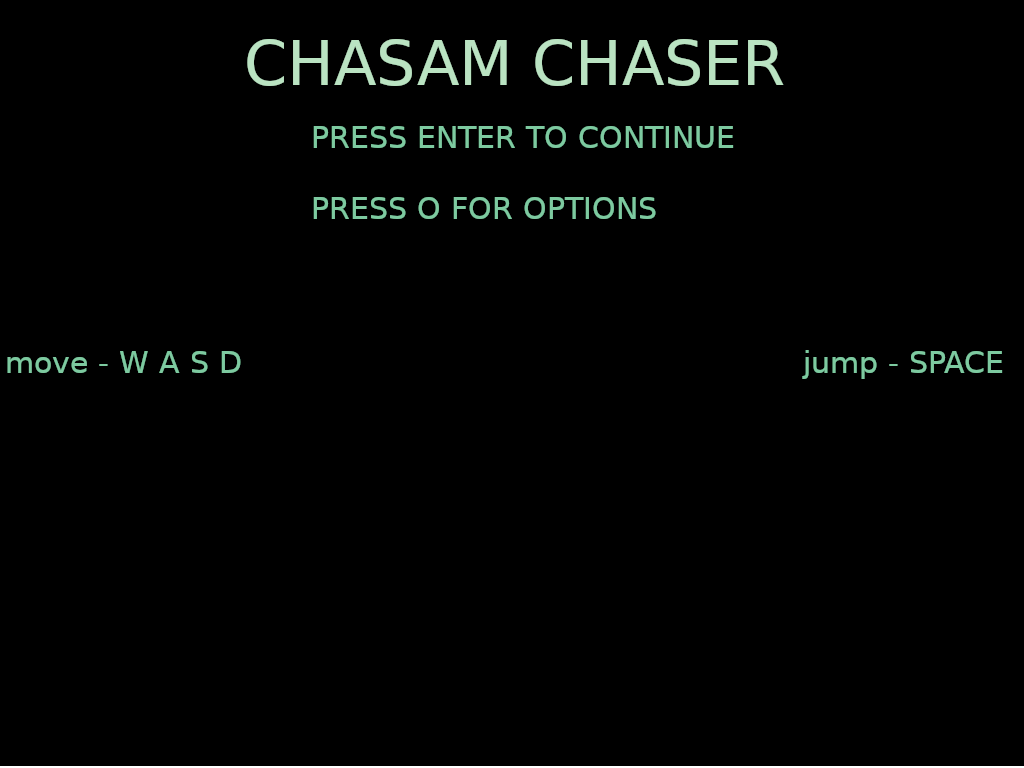
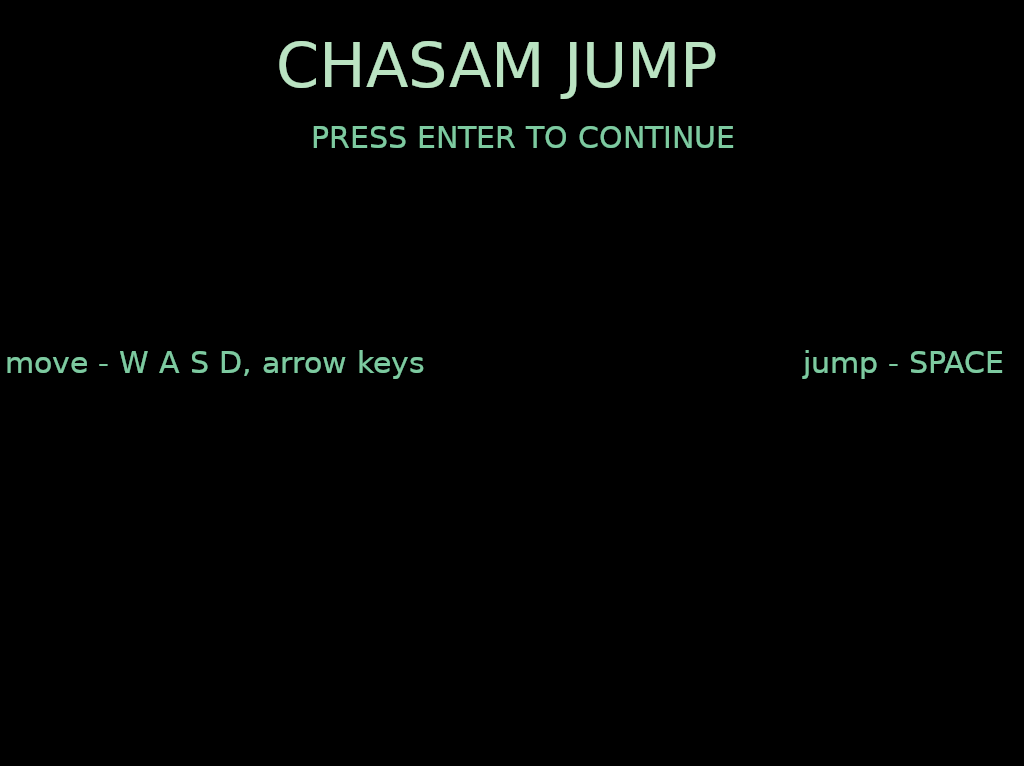
name change and more buffer on falling offscreen

Changed region(s): [[0.2188, 0.0312, 0.7812, 0.125], [0.2812, 0.25, 0.6562, 0.3125], [0.25, 0.4375, 0.4062, 0.5]]

diff --git a/src/main.c b/src/main.c
@@ -17,52 +17,52 @@
 
 
 int main(){
-    minigl_engine *CHASAM_CHASER = minigl_init(1024.0f, 768.0f, "miniGL");
-    load_assets(CHASAM_CHASER);
+    minigl_engine *CHASAM_JUMP = minigl_init(1024.0f, 768.0f, "miniGL");
+    load_assets(CHASAM_JUMP);
 
-    minigl_scene *scene_menu = create_scene_menu(CHASAM_CHASER);
-    minigl_scene *level1 = create_scene_level1(CHASAM_CHASER);
-    minigl_scene *level2 = create_scene_level2(CHASAM_CHASER); 
-    minigl_scene *level3 = create_scene_level3(CHASAM_CHASER); 
-    minigl_scene *scene_win = create_scene_win(CHASAM_CHASER); 
+    minigl_scene *scene_menu = create_scene_menu(CHASAM_JUMP);
+    minigl_scene *level1 = create_scene_level1(CHASAM_JUMP);
+    minigl_scene *level2 = create_scene_level2(CHASAM_JUMP); 
+    minigl_scene *level3 = create_scene_level3(CHASAM_JUMP); 
+    minigl_scene *scene_win = create_scene_win(CHASAM_JUMP); 
 
-    minigl_engine_attach_scene(CHASAM_CHASER, scene_menu);
-    minigl_engine_attach_scene(CHASAM_CHASER, level1);
-    minigl_engine_attach_scene(CHASAM_CHASER, level2);
-    minigl_engine_attach_scene(CHASAM_CHASER, level3);
-    minigl_engine_attach_scene(CHASAM_CHASER, scene_win);
+    minigl_engine_attach_scene(CHASAM_JUMP, scene_menu);
+    minigl_engine_attach_scene(CHASAM_JUMP, level1);
+    minigl_engine_attach_scene(CHASAM_JUMP, level2);
+    minigl_engine_attach_scene(CHASAM_JUMP, level3);
+    minigl_engine_attach_scene(CHASAM_JUMP, scene_win);
 
-    CHASAM_CHASER->current_scene = 0;
+    CHASAM_JUMP->current_scene = 0;
 
 
-    audio_source *music_source = audio_manager_create_source(&CHASAM_CHASER->audio_manager, "sneksong");
+    audio_source *music_source = audio_manager_create_source(&CHASAM_JUMP->audio_manager, "sneksong");
     //audio_manager_play_source(music_source, 1);
 
     double prev_time = glfwGetTime();
-    CHASAM_CHASER->accumulated_frame_time = 0.0;
+    CHASAM_JUMP->accumulated_frame_time = 0.0;
     int frame_count = 0;
     double fps_last_time = prev_time;
 
     //main loop
-    while (!glfwWindowShouldClose(CHASAM_CHASER->window)){ // game loop
-        update_input(&(CHASAM_CHASER->engine_input_manager));
+    while (!glfwWindowShouldClose(CHASAM_JUMP->window)){ // game loop
+        update_input(&(CHASAM_JUMP->engine_input_manager));
         glfwPollEvents();
         
         double current_time = glfwGetTime();
         double frame_time = current_time - prev_time;
         prev_time = current_time;
-        CHASAM_CHASER->accumulated_frame_time += frame_time;
+        CHASAM_JUMP->accumulated_frame_time += frame_time;
 
 
-        if (CHASAM_CHASER->accumulated_frame_time >= PHYSICS_TIMESTEP) { //update viewport when resized
+        if (CHASAM_JUMP->accumulated_frame_time >= PHYSICS_TIMESTEP) { //update viewport when resized
             int window_w;
             int window_h;
-            glfwGetWindowSize(CHASAM_CHASER->window, &window_w, &window_h);
+            glfwGetWindowSize(CHASAM_JUMP->window, &window_w, &window_h);
             glViewport(0, 0, window_w, window_h);
         }
 
-        minigl_scene_run_loop(CHASAM_CHASER);
-        minigl_draw(CHASAM_CHASER);
+        minigl_scene_run_loop(CHASAM_JUMP);
+        minigl_draw(CHASAM_JUMP);
         
         //put FPS in title bar
         frame_count++;
@@ -71,18 +71,18 @@ int main(){
             int fps = frame_count;
             char title[256];
             snprintf(title, sizeof(title), "miniGL - [FPS: %d]", fps);
-            glfwSetWindowTitle(CHASAM_CHASER->window, title);
+            glfwSetWindowTitle(CHASAM_JUMP->window, title);
             frame_count = 0;
             fps_last_time = current_time;
         }
 
-        audio_manager_update(&CHASAM_CHASER->audio_manager);
-        glfwSwapBuffers(CHASAM_CHASER->window);
+        audio_manager_update(&CHASAM_JUMP->audio_manager);
+        glfwSwapBuffers(CHASAM_JUMP->window);
     }
 
 
     glfwTerminate();
-    audio_manager_cleanup(&CHASAM_CHASER->audio_manager);
+    audio_manager_cleanup(&CHASAM_JUMP->audio_manager);
     return 0;
 }
 
